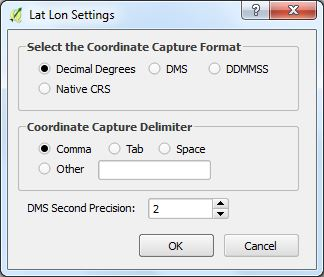
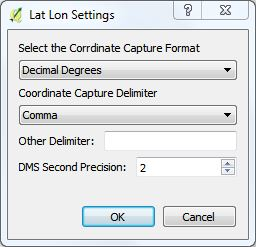
Updated the documentation.

diff --git a/readme.md b/readme.md
@@ -1,4 +1,4 @@
-#Lat Lon Tools Plugin
+# Lat Lon Tools Plugin
 
 When working with Google Earth, Google Maps or other on-line mapping tools coordinates are specified in the order of 'Latitude, Longitude', but the similar existing QGIS plugins specify the coordinates in the reverse order or require separate fields for latitude and longitude. This makes it so that you cannot just copy and paste between QGIS and Google Maps. This plugin fixes this problem and adds some additional functionality. Lat Lon Tools has three tools.
 
@@ -15,17 +15,16 @@ When working with Google Earth, Google Maps or other on-line mapping tools coord
 
 Because Lat Lon Tools follow the Google Map convention, it makes it possible to copy and paste between QGIS, Google Map, Google Earth, and other on-line maps. All tools work with latitude and longitude coordinates regardless of the QGIS project coordinate reference system. In the settings the user can choose the delimiter used between coordinates with presets for comma, space, and tab. *Other* allows the user to specify a delimited string which can be more than one character. The user can also choose whether the output format is in decimal degrees, DMS coordinates or in the native CRS.
 
-##Settings
-This is the settings dialog box.
+## Settings
+This shows the settings dialog box.
 
 ![Settings](doc/settings.jpg)
 
-There are 4 capture methods. This shows the format of each.
+There are 4 capture formats that can be selected from the drop down menu. The formats of each are as follows.
 
 * **Decimal Degrees** - "42.20391297, -86.023854202"
 * **DMS** - "36&deg; 47' 24.27" N, 99&deg; 22' 9.39" W"
-
 * **DDMMSS** - "400210.53N, 1050824.96 W"
 * **Native CRS** - This captures the coordinates in the Native CRS
 
-Note that in the DMS formats, the number of digits after the decimal is set by **DMS Second Precision**. The Delimiter is what separates the two coordinates.
+Note that in the DMS formats, the number of digits after the decimal is set by **DMS Second Precision**. The Delimiter is what separates the two coordinates. In the drop down menu you can specify a comma which is really a comma followed by a space. Additional delimiters are a tab, space, and other. If **Other** is selected, then the contents of **Other Delimiter** will be used.
